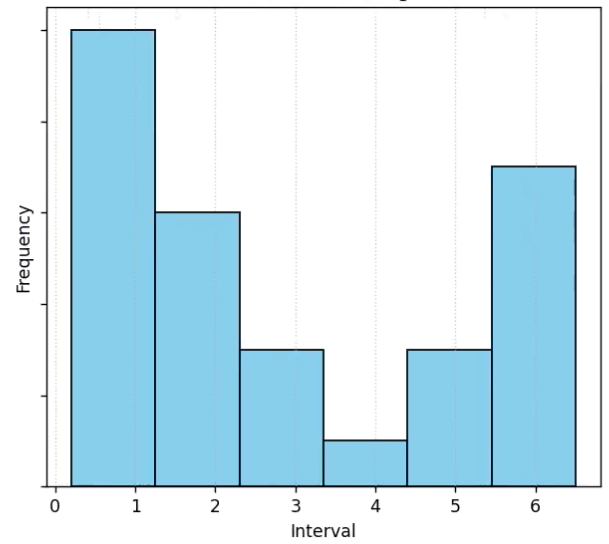
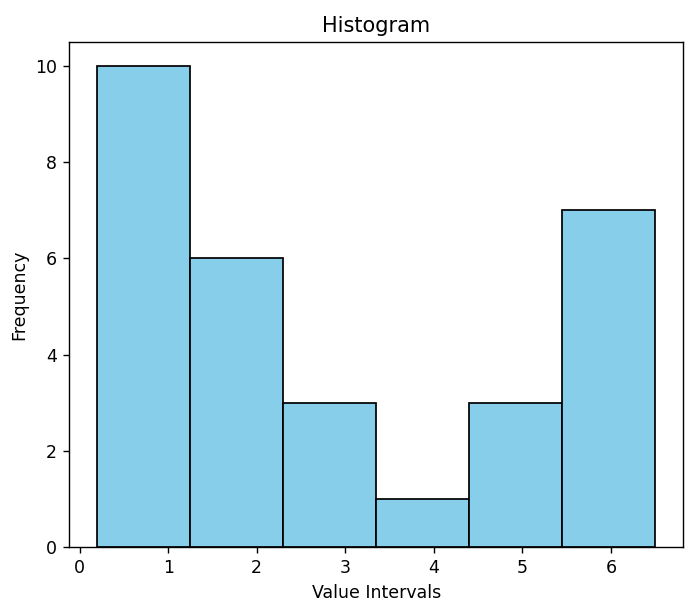
Some Minor Changes + New Datasets From my college's course

Changed region(s): [[0.0, 0.0, 0.9984, 1.0]]

diff --git a/Histogram.py b/Histogram.py
@@ -6,7 +6,8 @@ def calculate_freq(num1, num2) -> tuple:
     for element in dataset:
         if(element < num2 and element >= num1):
             frequency += 1
-    return frequency, round(frequency/sample_size, precision)
+    rel_freq = round(frequency/sample_size, 3)
+    return frequency, f'{rel_freq*100:.1f}%'
 
 def print_basic_data():
     print(f'Minimum is\t\t\t\t{mn}', end='\n')
@@ -21,7 +22,7 @@ def print_basic_data():
     print(f'Frequencies is\t\t\t{frequencies}', end='\n')
 
 
-file = open("dataset_1.csv", "rt")
+file = open("dataset_5.csv", "rt")
 str_list = file.read().split(',')
 dataset = []
 for i in range(0,len(str_list)):
@@ -39,8 +40,8 @@ subintervals_number = math.ceil(math.sqrt(sample_size))
 precision = 0
 for element in dataset:
     if element != int(element):
-        precision = len(str(dataset[0]).split('.')[1])
-        break
+        decimal_places = len(str(element).split('.')[1])
+        precision = max(precision, decimal_places)
 
 cell_width = round(rng/subintervals_number,precision)
 print(str(dataset[0]).split('.'))
@@ -59,7 +60,7 @@ print_basic_data()
 # Matplotlib code
 
 # table code
-fig, (tablo, histo) = plt.subplots(1, 2, sharey=True, tight_layout=True)
+fig, (tablo, histo) = plt.subplots(1, 2, tight_layout=True)
 columns = ['Intervals','Frequency', 'Relative Frequency']
 rows = []
 for i in range(0,subintervals_number):
@@ -74,15 +75,16 @@ table = tablo.table(cellText = rows, colLabels = columns, colLoc='center', loc='
 table.scale(1.5, 2.5)
 table.auto_set_font_size(False)
 table.set_fontsize(15)
+tablo.set_title('Frequency Distribution Table')
 
 # Histogram code
 
 histo.hist(dataset, bins = subintervals_number, color='skyblue', edgecolor='black')
-plt.xlabel("Interval")
-plt.ylabel("Frequency")
-histo.grid(axis='x', linestyle=':', alpha=0.7)
+histo.set_xlabel("Value Intervals")
+histo.set_ylabel("Frequency")
+histo.set_title("Histogram")
 
-plt.title("R.F. Table and Histogram")
+plt.suptitle("Frequency Distribution Analysis")
 plt.show()
 
 # Forgot to close it at the video

diff --git a/README.md b/README.md
@@ -38,7 +38,7 @@ python histogram_generator.py
 ## Input Format
 The dataset should be a CSV file with comma-separated numerical values:
 ```csv
-2.0,3.0,0.3,3.3,1.3,0.4,0.2,6.0,5.5,6.5,2.5,2.3...
+2.0,3.0,0.3,3.3,1.3,0.4,0.2,6.0,5.5,6.5,0.2,2.3,1.5,4.0,5.9,1.8,4.7,0.7,4.5,0.3,1.5,0.5,2.5,5.0,1.0,6.0,5.6,6.0,1.2,0.2
 ```
 ## Output
 - Console output with all statistical measures
